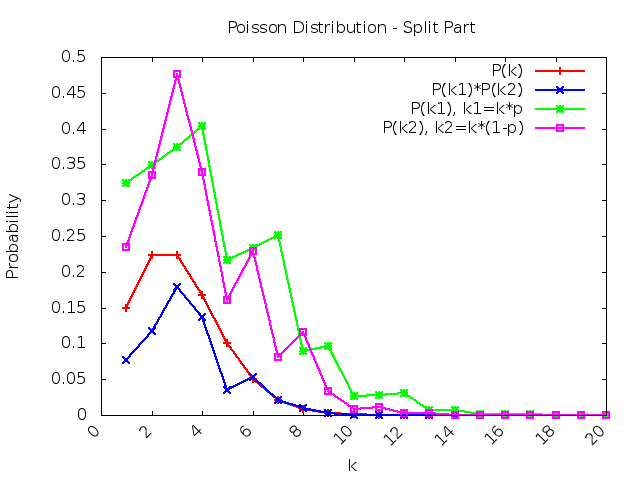
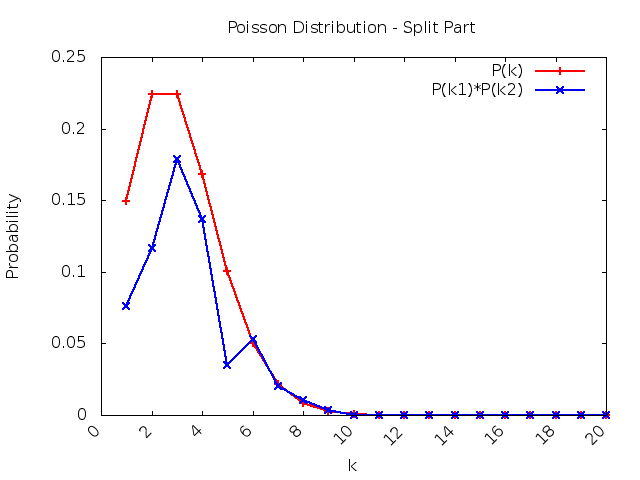
Add simulation part B.
* Need to fix exponential random variable function. I think the bias in figure is caused by mis-assign value to exponential random generator.

diff --git a/poisson_distribution/part_b.cc b/poisson_distribution/part_b.cc
@@ -2,6 +2,8 @@
 // user-defined library
 #include "../utils/poisson.h"
 #include "../utils/parse_arg.h"
+#include "../utils/rand_gen.h"
+#include "../utils/event.h"
 
 int main(int argc,char *argv[]){
     // create parsing args object
@@ -10,12 +12,14 @@ int main(int argc,char *argv[]){
     args->set_args_rules("p","Probability of Poisson X","0.4","float");
     args->set_args_rules("l","lambda of Poisson N","3","int");
     args->set_args_rules("k","upperbound of k (for N, which N can derive to N1, N2 according to p and 1-p)","100","int");
+    args->set_args_rules("s","simulation times","10000","int");
     // parse it!
     args->parsing(argc,argv);
 
     double p = std::atof(args->get_args_val("p").val.c_str());
     double l = std::atof(args->get_args_val("l").val.c_str());
     int upperbound = std::atoi(args->get_args_val("k").val.c_str());
+    int simulation_time = std::atoi(args->get_args_val("s").val.c_str());
 
     // Write file
     FILE *fp;
@@ -23,6 +27,7 @@ int main(int argc,char *argv[]){
     // Set upperbound for gnuplot to use
     fprintf(fp,"# %d\n",upperbound);
 
+    // ===================================== Mathematic Part ===================================== 
     // Calculate 
     for(double i=1;i<=upperbound;i++){
         // Get total P{X+Y=i}
@@ -31,7 +36,120 @@ int main(int argc,char *argv[]){
         px = poisson(l*p,i*p);
         py = poisson(l*(1-p),i*(1-p));
 
-        fprintf(fp,"%lf %lf %lf %lf %lf\n",i,p_s,px*py,px,py);
+        fprintf(fp,"%lf %lf %lf\n",i,p_s,px*py);
+    }
+
+    // ===================================== Simulation Part ===================================== 
+    // discrete event simulation
+    rand_gen *gen = new rand_gen();
+    event_list *elist = new event_list();
+    int rnt=simulation_time;
+    FILE *fp_sim = fopen("output/part_b_sim.output","w+");
+
+    event_type S;
+    // init with rand 
+    if(gen->frand(0,1)>p){
+        // become Y event
+        elist->set(0,std::string("Y"));
+    }
+    else{
+        elist->set(0,std::string("X"));
+    }
+    
+
+    while(rnt){
+        // pop out 
+        if(elist->get(S)){
+            // Using probability P to decide which event will be push 
+            if(gen->frand(0,1)>p){
+                // become Y event
+                elist->set(gen->exponential(l*(1-p),l),std::string("Y"));
+            }
+            else{
+                elist->set(gen->exponential(l*p,l),std::string("X"));
+            }
+            // record 
+            elist->record(S);
+            rnt--;
+        }
+    }
+
+    // Then eliminate first event (init)
+    elist->rec.erase(elist->rec.begin(),elist->rec.begin()+1);
+
+    // check 
+    int count=0,count_x=0,count_y=0;
+    double slot=exp(-1.0/(l)),slot_x=exp(-1.0/(l*p)),slot_y=exp(-1.0/(l*(1-p))),
+        record_slot=slot,record_slot_x=slot_x,record_slot_y=slot_y;
+    std::map<int,int> counter,counter_x,counter_y;
+
+    while(elist->rec.size()!=0){
+        event_type tmp;
+        tmp=elist->rec.front();
+        elist->rec.erase(elist->rec.begin(),elist->rec.begin()+1);
+        // total: S=X+Y
+        if(tmp.timestamp<=record_slot)
+            count++;
+        else{
+            record_slot+=slot;
+            counter[count]++;
+            count=0;
+        }
+        // And then do X mode 
+        if(tmp.type==std::string("X")){
+            if(tmp.timestamp<=record_slot_x)
+                count_x++;
+            else{
+                record_slot_x+=slot_x;
+                counter_x[count_x]++;
+                count_x=0;
+            }
+        }
+        if(tmp.type==std::string("Y")){
+            if(tmp.timestamp<=record_slot_y)
+                count_y++;
+            else{
+                record_slot_y+=slot_y;
+                counter_y[count_y]++;
+                count_y=0;
+            }
+        }
+        
+    }
+
+
+    if(count!=0)
+        counter[count]++;
+    if(count_x!=0)
+        counter_x[count_x]++;
+    if(count_y!=0)
+        counter_y[count_y]++;
+
+
+    count=0,count_x=0,count_y=0;
+
+    for(auto&it : counter){
+        count+=it.second;
+    }
+
+    for(auto&it : counter_x){
+        //printf("X: %d %d\n",it.first,it.second);
+        count_x+=it.second;
+    }
+
+    for(auto&it : counter_y){
+        //printf("Y: %d %d\n",it.first,it.second);
+        count_y+=it.second;
+    }
+
+    for(auto&it : counter){
+        double p_xy=0.0;
+        for(int i=0;i<=it.first;i++){
+            // S=X+Y, X:0~it.first, Y:it.first~0
+            p_xy+=((float)counter_x[i]/count_x)*((float)counter_y[it.first-i]/count_y);
+        }
+
+        fprintf(fp_sim,"%d %lf %lf\n",it.first,(float)it.second/count,p_xy);
     }
 
     return 0;

diff --git a/poisson_distribution/README.md b/poisson_distribution/README.md
@@ -107,6 +107,9 @@ P(Y=n-k) &=&\frac{e^{-(\lambda_2)}}{(n-k)!} \cdot (\lambda_2)^{n-k}
 * Testing with statistics: $$k=20,\ \lambda=10,\ p=0.4$$, also if you want to adjust, please using `./part_b.out -h` to see more.
 ![](image/part_b.png)
 
+* And simulation part: 
+![](image/part_b_sim.png)
+
 #### Difference (TODO)
 
 ## Reference
